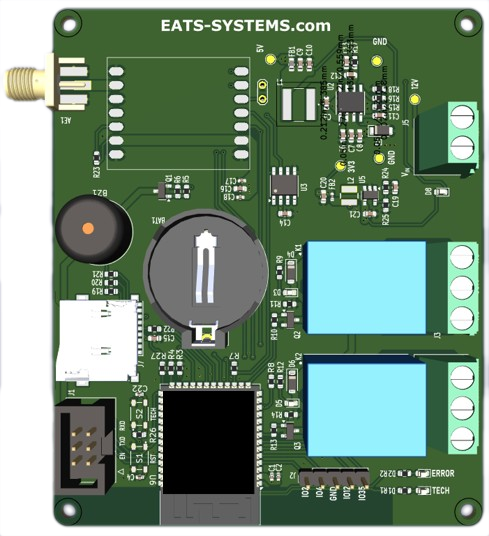
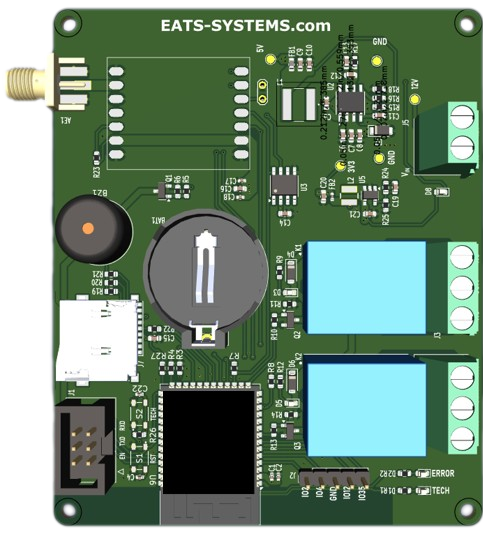
update images

diff --git a/index.html b/index.html
@@ -195,7 +195,7 @@
                     <div class="systems-stage" aria-roledescription="carousel">
                         <!-- Slide 1 -->
                         <figure class="systems-card" data-index="0" data-pos="-1" role="group"
-                            aria-roledescription="slide" aria-label="UHF Technology">
+                            aria-roledescription="slide" aria-label="UHF sticker detector technology">
                             <div class="media">
                                 <img src="/images/systems/uhf-technology.png" alt="UHF Technology system"
                                     loading="lazy">
